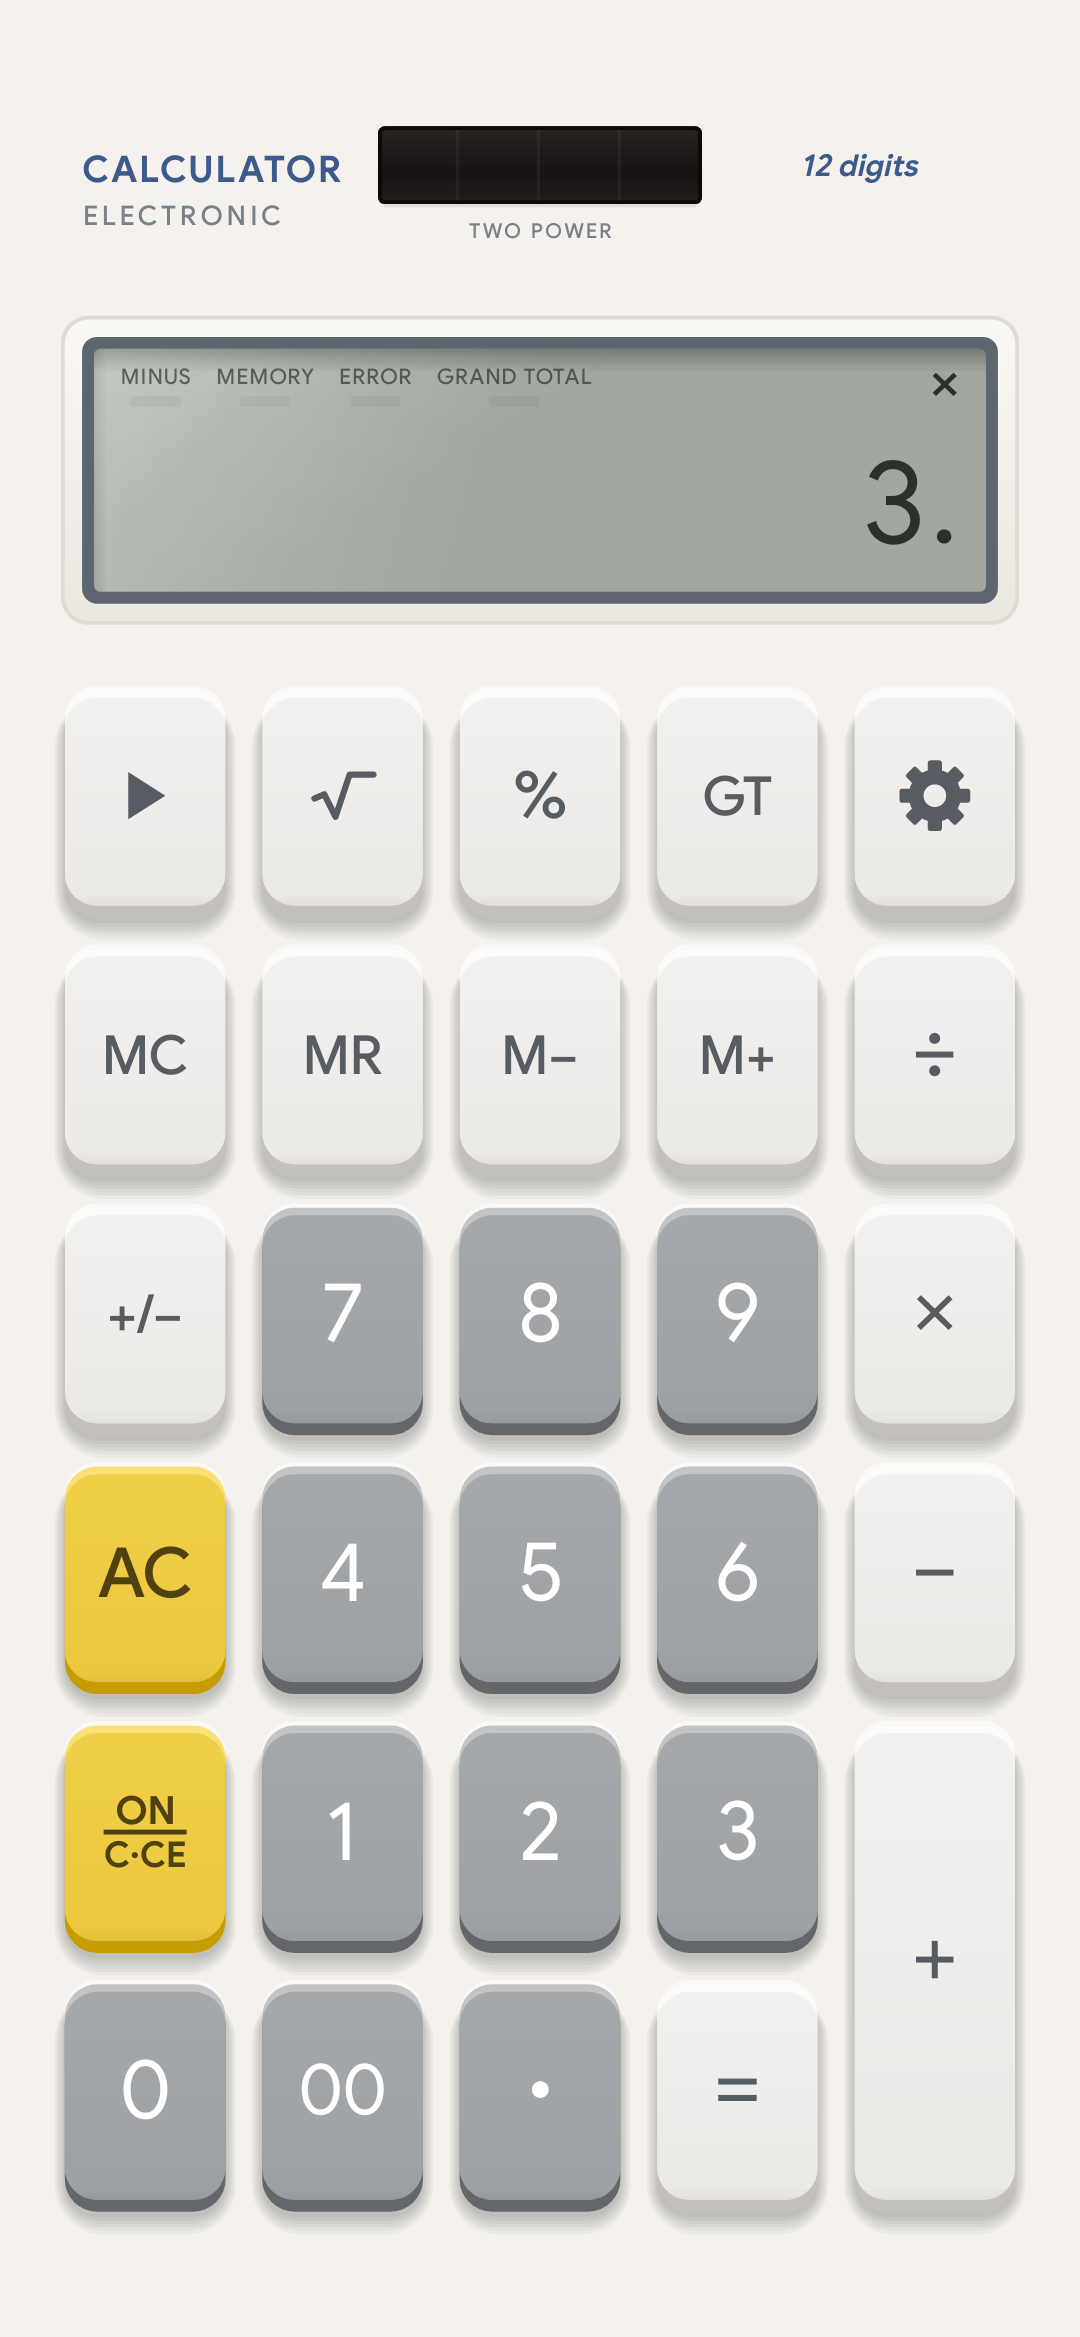
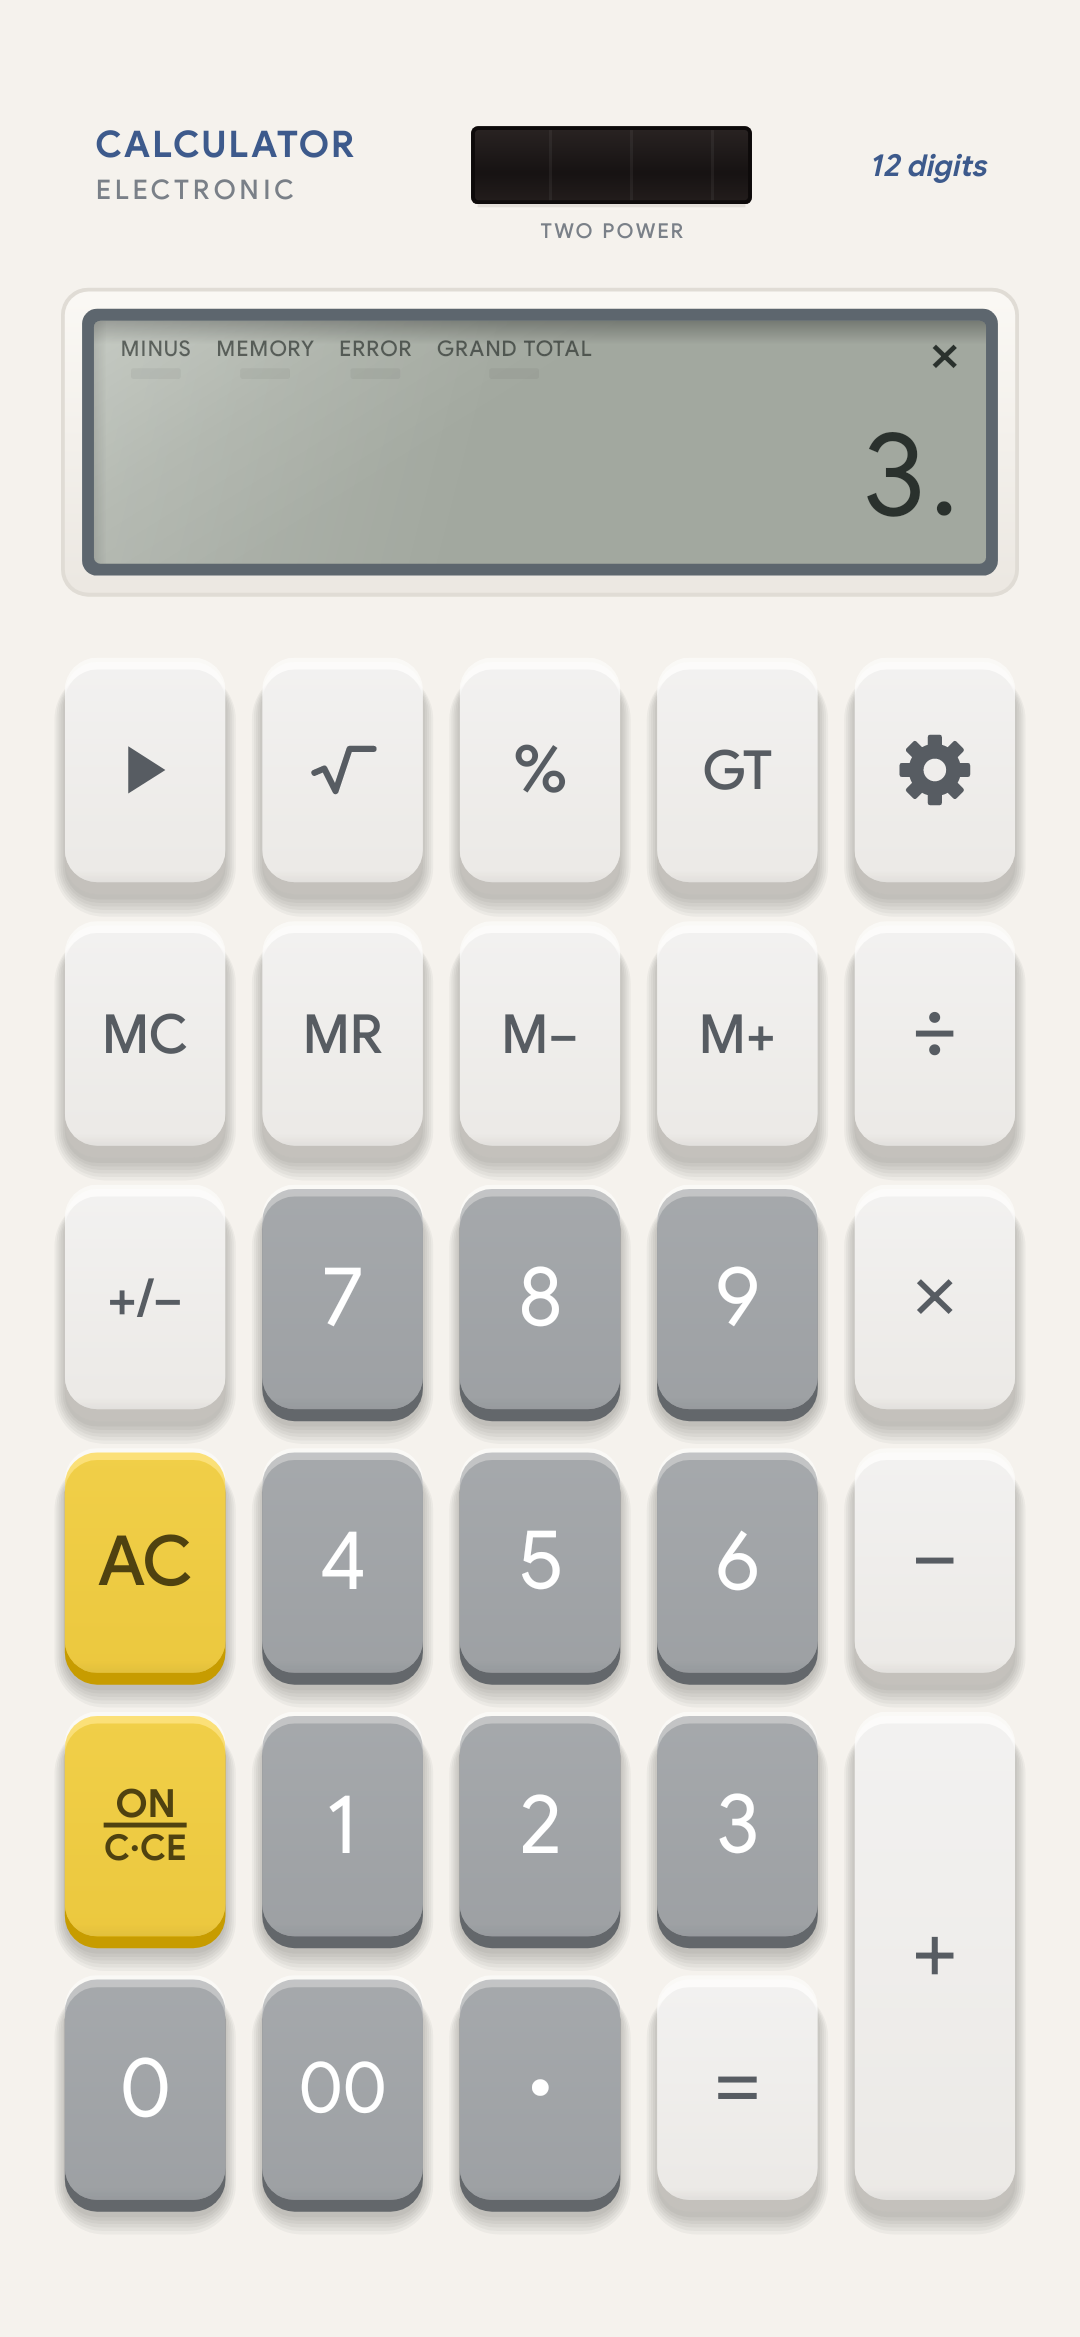
Web version: align the header and tighten the gap above the LCD
Claude-Session: https://claude.ai/code/session_01HMrFGJVtAWFkopazrQZbRp

diff --git a/index.html b/index.html
@@ -312,13 +312,13 @@ function layout() {
   W = cv.width; H = cv.height;
   u = Math.min(W / 100, H / 200);
   const chFull = Math.min(H - 8 * u, 205 * u);
-  const fixed = 6 * u + 17.9 * u + 27.9 * u + 6 * u + 7 * u;
+  const fixed = 6 * u + 15.3 * u + 27.9 * u + 6 * u + 7 * u;
   const hk = chFull - fixed, hkS = hk * keyScale, ch = fixed + hkS;
   const left0 = (W - 100 * u) / 2, top0 = 4 * u + Math.max(0, H - ch - 8 * u) * align;
   contentL = left0 + 6 * u; contentR = left0 + 94 * u;
   const keysBottom = top0 + ch - 7 * u;
   headTop = top0 + 6 * u;
-  Object.assign(bezel, { l: contentL, t: headTop + 17.9 * u, r: contentR, b: headTop + 45.8 * u });
+  Object.assign(bezel, { l: contentL, t: headTop + 15.3 * u, r: contentR, b: headTop + 43.2 * u });
   Object.assign(frame, inset(bezel, 1.6 * u));
   Object.assign(lcd, inset(frame, 1.1 * u));
   const keysTop = keysBottom - hkS, cg = 3.4 * u, rg = 3.6 * u;
@@ -352,11 +352,16 @@ function drawText(s, x, y) {
 }
 
 function drawHead() {
-  const x = contentL + 1.5 * u;
-  setText(700, 3.4 * u, hexA(th.label), .06); drawText("CALCULATOR", x, headTop + 5.2 * u);
-  setText(500, 2.5 * u, hexA(th.sub), .14); drawText("ELECTRONIC", x, headTop + 9.1 * u);
+  // the three elements share one centre line; the outer two line up with the LCD glass edges
+  const L = lcd.l, R = lcd.r, yc = headTop + 3.6 * u;
+  setText(700, 3.4 * u, hexA(th.label), .06); const labW = measure("CALCULATOR");
+  drawText("CALCULATOR", L, yc - .75 * u);
+  setText(500, 2.5 * u, hexA(th.sub), .14); drawText("ELECTRONIC", L, yc + 3.15 * u);
+  setText(700, 2.8 * u, hexA(th.label), 0); text.skew = -.22; const digW = measure("12 digits");
+  text.align = "right"; drawText("12 digits", R, yc + 1 * u);
 
-  const sl = (contentL + contentR) / 2 - 15 * u, sr = sl + 30 * u, st = headTop, sb = headTop + 7.2 * u;   // solar panel centred
+  const sw = 26 * u;   // solar panel, centred in the space between the two
+  const sl = (L + labW + R - digW) / 2 - sw / 2, sr = sl + sw, st = yc - 3.6 * u, sb = yc + 3.6 * u;
   fill.shader = grad(0, st, 0, sb, [argb(0xFF2A2423), argb(0xFF171313), argb(0xFF241E1D)], [0, .6, 1]);
   fillRR(sl, st, sr, sb, .6 * u);
   fill.shader = null;
@@ -366,11 +371,8 @@ function drawHead() {
   for (let lx = sl + 7.2 * u; lx < sr - u; lx += 7.5 * u) fillRect(lx, st + .35 * u, lx + .3 * u, sb - .35 * u);
   fill.c = th.dark ? argb(0x22FFFFFF) : argb(0xFFE2DED8);
   fillRect(sl + .6 * u, sb, sr - .6 * u, sb + .3 * u);
-
   setText(500, 1.9 * u, hexA(th.sub), .12); text.align = "center";
   drawText("TWO POWER", (sl + sr) / 2, sb + 3.1 * u);
-  setText(700, 2.8 * u, hexA(th.label), 0); text.skew = -.22; text.align = "center";
-  drawText("12 digits", (sr + contentR) / 2, headTop + 4.6 * u);   // centred between the panel and the edge
 }
 
 function drawLcd() {
